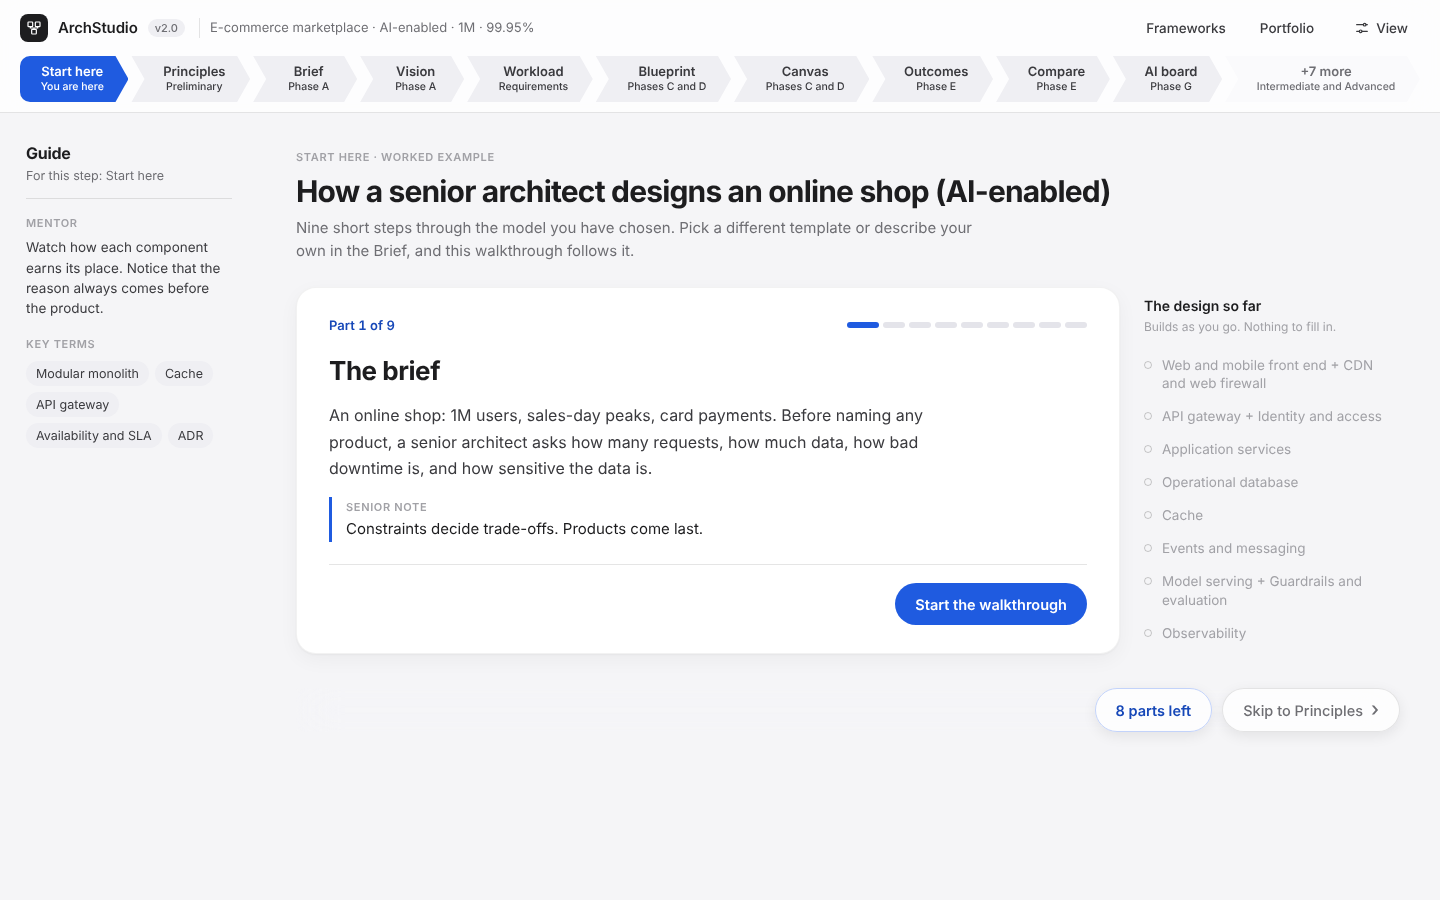
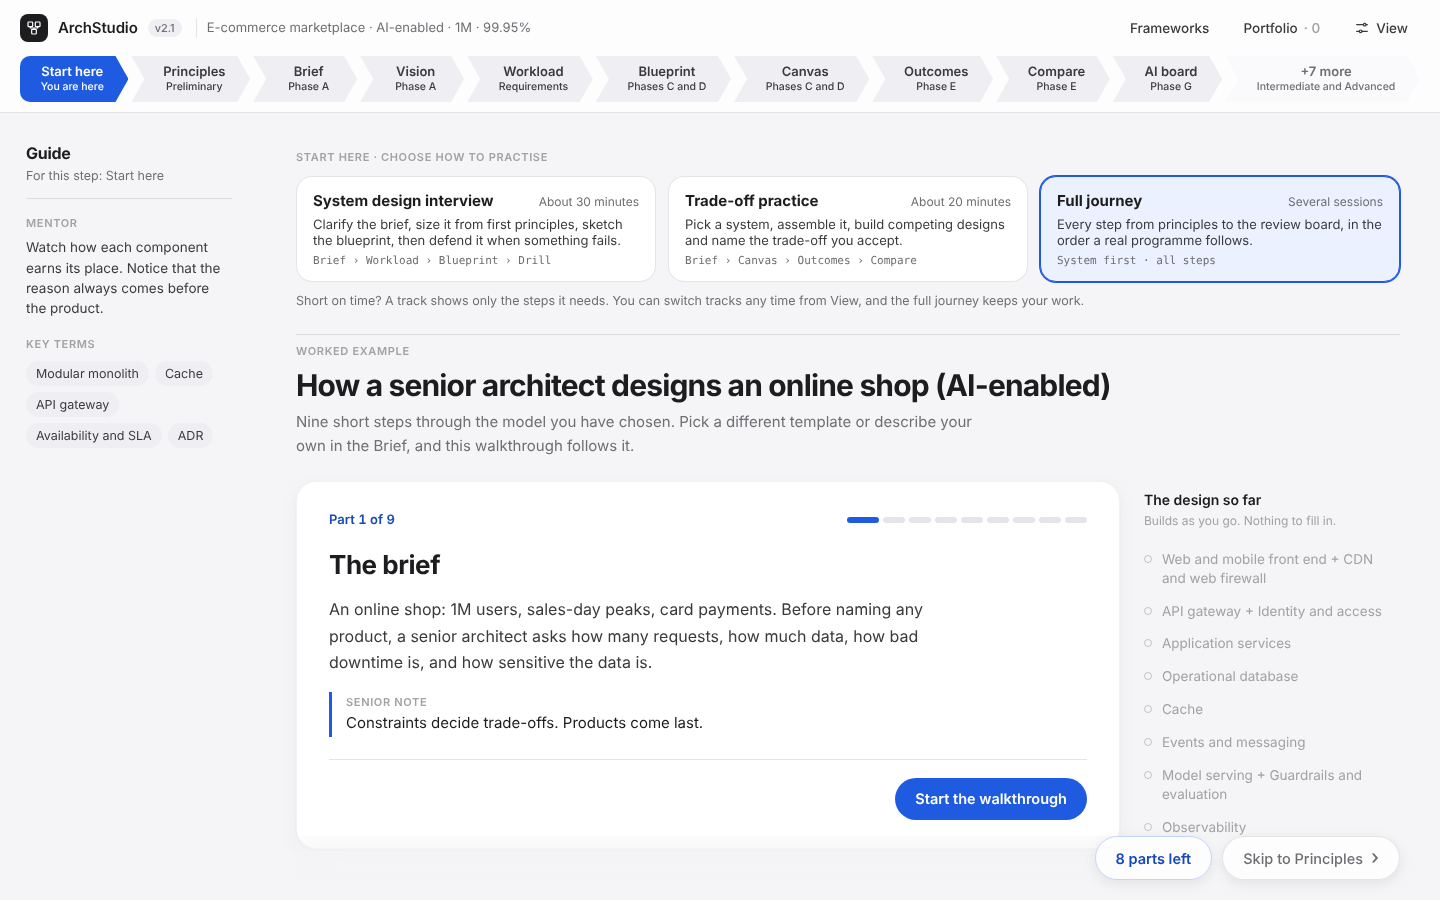
Add practice tracks: system design interview and trade-off practice
- Track picker on Start here and in View, at every level
- Journey shows only the track's steps with suggested minutes
- Track-specific coaching and finish card; one click back to the full journey

Claude-Session: https://claude.ai/code/session_01P96XG3jR94F4SatdfiLe5y

diff --git a/app/index.html b/app/index.html
@@ -251,6 +251,14 @@ body::before { content: ""; position: fixed; inset: 0 0 auto; height: env(safe-a
 </div>
 <span style="font-size: 12px; color: var(--ink-4)">{{lockedLine}}</span>
 </div>
+<div style="display: flex; flex-direction: column; gap: 6px; padding-top: 12px; border-top: 1px solid var(--hair)">
+<span class="as-eyebrow">Practice track</span>
+<div role="group" aria-label="Practice track" style="display: flex; flex-direction: column; gap: 4px">
+<sc-for list="{{trackOpts}}" as="tk" hint-placeholder-count="3">
+<button type="button" onClick="{{tk.pick}}" aria-pressed="{{tk.on}}" style="display: flex; justify-content: space-between; gap: 8px; align-items: baseline; text-align: left; min-height: 34px; padding: 6px 10px; border-radius: 8px; border: 1px solid {{tk.bd}}; background: {{tk.bg}}; color: var(--ink); font-size: 13px"><span style="font-weight: 500">{{tk.n}}</span><span style="font-size: 11.5px; color: var(--ink-3)">{{tk.t}}</span></button>
+</sc-for>
+</div>
+</div>
 <div style="display: flex; justify-content: space-between; align-items: center; gap: 12px; padding-top: 12px; border-top: 1px solid var(--hair)">
 <span style="display: flex; flex-direction: column"><span style="font-size: 14px; font-weight: 500">Plain language</span><span style="font-size: 12px; color: var(--ink-3)">Define terms as you go</span></span>
 <button type="button" role="switch" class="as-switch" onClick="{{togglePlain}}" aria-checked="{{plainPressed}}" aria-label="Plain language"><span></span></button>
@@ -278,7 +286,7 @@ body::before { content: ""; position: fixed; inset: 0 0 auto; height: env(safe-a
 </sc-for>
 <sc-if value="{{hasLockedChev}}" hint-placeholder-val="{{true}}">
 <li style="flex: 1 0 auto; min-width: 128px; display: flex">
-<button type="button" class="as-chev" data-state="locked" data-first="false" onClick="{{toggleMenu}}" title="{{lockedLine}}. Change level in View."><span class="as-chev-l">+{{lockedNum}} more</span><span class="as-chev-s">{{lockedNext}}</span></button>
+<button type="button" class="as-chev" data-state="locked" data-first="false" onClick="{{lockedClick}}" title="{{lockedTip}}"><span class="as-chev-l">+{{lockedNum}} more</span><span class="as-chev-s">{{lockedNext}}</span></button>
 </li>
 </sc-if>
 </ol>
@@ -428,8 +436,21 @@ body::before { content: ""; position: fixed; inset: 0 0 auto; height: env(safe-a
 
 <sc-if value="{{isTour}}" hint-placeholder-val="{{true}}">
 <section style="display: flex; flex-direction: column; gap: 24px">
-<div style="display: flex; flex-direction: column; gap: 8px">
-<span class="as-eyebrow">Start here · Worked example</span>
+<div style="display: flex; flex-direction: column; gap: 10px">
+<span class="as-eyebrow">Start here · Choose how to practise</span>
+<div role="group" aria-label="Practice track" style="display: grid; grid-template-columns: repeat(auto-fit, minmax(240px, 1fr)); gap: 12px">
+<sc-for list="{{trackOpts}}" as="tk" hint-placeholder-count="3">
+<button type="button" onClick="{{tk.pick}}" aria-pressed="{{tk.on}}" style="text-align: left; padding: 14px 16px; border-radius: var(--r-lg); border: 1px solid {{tk.bd}}; box-shadow: {{tk.ring}}; background: {{tk.bg}}; color: var(--ink); display: flex; flex-direction: column; gap: 6px">
+<span style="display: flex; flex-wrap: wrap; justify-content: space-between; gap: 4px 8px; align-items: baseline"><span style="font-weight: 700; font-size: 15px">{{tk.n}}</span><span style="font-size: 12px; color: var(--ink-3)">{{tk.t}}</span></span>
+<span style="font-size: 13px; color: var(--ink-2)">{{tk.d}}</span>
+<span style="font-family: var(--mono); font-size: 11px; color: var(--ink-3)">{{tk.path}}</span>
+</button>
+</sc-for>
+</div>
+<span style="font-size: 12.5px; color: var(--ink-3)">Short on time? A track shows only the steps it needs. You can switch tracks any time from View, and the full journey keeps your work.</span>
+</div>
+<div style="display: flex; flex-direction: column; gap: 8px; padding-top: 8px; border-top: 1px solid var(--hair)">
+<span class="as-eyebrow">Worked example</span>
 <h1 style="margin: 0; font-size: 30px; line-height: 1.15">{{tourTitle}}</h1>
 <p style="margin: 0; color: var(--ink-3); max-width: 680px; line-height: 1.55">{{tourIntro}}</p>
 </div>
@@ -2010,6 +2031,17 @@ function localStore() {
     collection: name => ({ doc: () => docRef(name + '/' + newId()), orderBy: () => ({ limit: () => ({ onSnapshot: cb => sub(() => cb(snap())) }) }) }) };
 }
 
+const TRACKS = {
+  interview: { n: 'System design interview', t: 'About 30 minutes', lens: 'system',
+    d: 'Clarify the brief, size it from first principles, sketch the blueprint, then defend it when something fails.',
+    steps: [['brief', 5], ['workload', 10], ['blueprint', 10], ['drill', 5]] },
+  tradeoff: { n: 'Trade-off practice', t: 'About 20 minutes',
+    d: 'Pick a system, assemble it, build competing designs and name the trade-off you accept.',
+    steps: [['brief', 3], ['canvas', 7], ['outcomes', 5], ['compare', 5]] },
+  full: { n: 'Full journey', t: 'Several sessions',
+    d: 'Every step from principles to the review board, in the order a real programme follows.', steps: null }
+};
+
 const AI_PROVIDERS = {
   anthropic: { n: 'Anthropic', s: 'Claude', model: 'claude-sonnet-5-5', key: true, link: 'https://console.anthropic.com/settings/keys',
     help: 'Uses Claude through the Anthropic API. You need an API key from the Anthropic Console; API usage is billed by Anthropic.' },
@@ -2088,7 +2120,7 @@ class Component extends DCLogic {
     scenario: null, principles: null, stake: null, chg: {}, contractSigned: false,
     canvas: null, canvasSel: null, linkFrom: null, linkType: 'sync', palQ: '',
     board: null, boardVerdict: null, portfolio: [], names: {}, savedId: null, showPort: false, showFw: false, showMenu: false, showSide: false, portMsg: '', portErr: false, confirmDel: null, teamMsg: '',
-    showAI: false, aiCfg: { provider: 'anthropic', model: 'claude-sonnet-5-5', key: '', url: '', remember: false }, aiSrc: 'none', aiTest: '', aiTestOk: null, aiTesting: false };
+    track: 'full', showAI: false, aiCfg: { provider: 'anthropic', model: 'claude-sonnet-5-5', key: '', url: '', remember: false }, aiSrc: 'none', aiTest: '', aiTestOk: null, aiTesting: false };
 
   componentDidMount() {
     this._host = !!(window.claude && typeof window.claude.use === 'function');
@@ -2855,7 +2887,32 @@ class Component extends DCLogic {
 
   visibleSteps(level) {
     const cap = { beginner: 1, intermediate: 2, advanced: 3 }[level || this.state.level];
+    const T = TRACKS[this.state.track];
+    if (T && T.steps) {
+      const all = this.allSteps(); const byId = {}; all.forEach(x => { byId[x[0]] = x; });
+      return (cap === 1 ? [byId.tour] : []).concat(T.steps.map(x => byId[x[0]]).filter(Boolean));
+    }
     return this.allSteps().filter(s => s[2] <= cap && (s[0] !== 'tour' || cap === 1));
+  }
+
+  pickTrack(id) {
+    const T = TRACKS[id]; if (!T) return;
+    const patch = { track: id, showMenu: false };
+    if (T.lens) patch.lens = T.lens;
+    if (T.steps) patch.step = T.steps[0][0];
+    this.setState(patch);
+    try { window.scrollTo({ top: 0 }); } catch (e) {}
+  }
+
+  trackVals() {
+    const st = this.state; const cur = TRACKS[st.track] ? st.track : 'full';
+    const opts = ['interview', 'tradeoff', 'full'].map(id => { const T = TRACKS[id]; const on = id === cur;
+      return { n: T.n, t: T.t, d: T.d, on: on ? 'true' : 'false', pick: () => this.pickTrack(id),
+        path: T.steps ? T.steps.map(x => this.allSteps().find(a => a[0] === x[0])[1]).join(' › ') : (st.lens === 'enterprise' ? 'Portfolio first · all steps' : 'System first · all steps'),
+        bd: on ? 'var(--accent)' : 'var(--hair)', bg: on ? 'var(--accent-soft)' : 'var(--surface)', ring: on ? '0 0 0 1px var(--accent)' : 'none' }; });
+    const T = TRACKS[cur];
+    return { trackOpts: opts, inTrack: !!T.steps, trackName: T.n, trackLine: T.steps ? T.n + ' · ' + T.t.toLowerCase() : '',
+      fullJourney: () => this.pickTrack('full') };
   }
 
   setLevel(level) {
@@ -3880,6 +3937,15 @@ class Component extends DCLogic {
       gap: 'Never jump from baseline to target in one step. Each plateau should be something the business can run on.',
       board: 'Answer with the specifics of your design: names, numbers and the trade-off you accepted. Boards distrust adjectives.',
       change: 'Most change is smaller than it looks. Reserve a new ADM cycle for changes to drivers, scope or strategy.' };
+    if (st.track === 'interview') {
+      coaches.brief = 'Interview habit: spend the first minutes asking, not drawing. Users, load, data size, and what an outage costs.';
+      coaches.workload = 'Say the numbers out loud. Interviewers care less about the exact figure than whether your design follows from it.';
+      coaches.blueprint = 'Draw the simplest thing that meets the numbers, then add parts only when a number forces you to.';
+      coaches.drill = 'Expect "what happens when this fails?" Name how you would notice, how far it spreads and how you recover.';
+    } else if (st.track === 'tradeoff') {
+      coaches.outcomes = 'Make the two designs genuinely different: one open source and self-run, one managed. Similar options teach nothing.';
+      coaches.compare = 'Finish by saying which design you would pick and the one quality you are giving up for it.';
+    }
     if (ent) {
       coaches.brief = 'Portfolio first: start from the capability that must improve and the systems that serve it today. Technology comes later.';
       coaches.blueprint = 'Look outward first. A solution that fits its neighbours and lets old systems retire beats a clever one that adds to the estate.';
@@ -4110,15 +4176,18 @@ class Component extends DCLogic {
 
     // Journey chevrons: every step on the learner's path, plus what unlocks later
     const phaseTxt = p => !p ? '' : p === 'R' ? 'Requirements' : p === 'Prelim' ? 'Preliminary' : (p.indexOf(' ') >= 0 ? 'Phases ' + p.split(' ').join(' and ') : 'Phase ' + p);
+    const trk = TRACKS[st.track] && TRACKS[st.track].steps ? TRACKS[st.track] : null; const tmin = {}; if (trk) trk.steps.forEach(x => { tmin[x[0]] = x[1]; });
     const journey = vis.map((x, i) => {
       const cur = x[0] === step; const dn = i < si; const ph = phaseTxt(x[3]);
       return { label: x[0] === 'tour' ? 'Start here' : x[1], state: cur ? 'now' : dn ? 'done' : 'next', first: i === 0 ? 'true' : 'false', cur: cur ? 'step' : 'false',
-        sub: cur ? 'You are here' : dn ? '✓ ' + (ph || 'Done') : (ph || 'Step ' + (i + 1)),
+        sub: cur ? 'You are here' : dn ? '✓ ' + (trk && tmin[x[0]] ? 'Done' : (ph || 'Done')) : (trk && tmin[x[0]] ? 'About ' + tmin[x[0]] + ' min' : (ph || 'Step ' + (i + 1))),
         tip: 'Step ' + (i + 1) + ' of ' + vis.length + ': ' + x[1] + (ph ? ' (' + ph + ')' : ''), go: go(x[0]) };
     });
     const lockedSteps = this.allSteps().filter(x => x[0] !== 'tour' && visIds.indexOf(x[0]) < 0);
     const lockedLv = lockedSteps.map(x => x[2]).filter((v, i, a) => a.indexOf(v) === i).sort();
-    const lockedNext = lockedLv.length > 1 ? 'Intermediate and Advanced' : lockedLv[0] === 3 ? 'At Advanced level' : 'At Intermediate level';
+    const lockedNext = trk ? 'In the full journey' : lockedLv.length > 1 ? 'Intermediate and Advanced' : lockedLv[0] === 3 ? 'At Advanced level' : 'At Intermediate level';
+    const lockedClick = trk ? () => this.pickTrack('full') : () => this.setState({ showMenu: !st.showMenu });
+    const lockedTip = trk ? 'Switch to the full journey' : 'Steps unlock at higher levels. Change level in View.';
 
     // Flowchart: orthogonal routing through the gaps between cards
     const colOf = { exp: 0, edge: 1, app: 2, data: 3 };
@@ -4495,7 +4564,7 @@ class Component extends DCLogic {
     const nextLevel = { beginner: ['intermediate','Unlock Intermediate: decisions, evolution and drills'], intermediate: ['advanced','Unlock Advanced: enterprise view and review board'] }[st.level];
     const atEnd = si === vis.length - 1;
     const base = {
-      journey, hasLockedChev: lockedSteps.length > 0, lockedNum: lockedSteps.length, lockedNext,
+      journey, hasLockedChev: lockedSteps.length > 0, lockedNum: lockedSteps.length, lockedNext, lockedClick, lockedTip,
       lensOpts, briefIntro, libOpts, libNote, land, showLandscape: ent, guideStep: step === 'tour' ? 'Start here' : vis[si][1],
       flowHead: ent ? '2. Inside the solution: how the parts talk' : '1. How the parts talk to each other', reqHead: ent ? '3. Follow a request and inspect the structure' : '2. Follow a request and inspect the structure',
       wQs, wFig, wCalc, wLaws, wDerived, wSummary, wSumFg: wMis ? 'var(--warn)' : 'var(--good)', wBasis, wImplNote: isImplApp,
@@ -4508,7 +4577,7 @@ class Component extends DCLogic {
       showTpl: st.showTpl, tplExpanded: st.showTpl ? 'true' : 'false', tplLabel: st.showTpl ? 'Hide templates' : 'Browse templates', toggleTpl: () => this.setState({ showTpl: !st.showTpl }),
       stepPos: 'Step ' + (si + 1) + ' of ' + vis.length + ': ' + vis[si][1],
       steps, coach: coaches[step], briefLine: A.n + ' · ' + { none: 'No AI', enabled: 'AI-enabled', native: 'AI-native' }[st.ai] + ' · ' + st.scale + ' · ' + st.avail + '%', levels,
-      hasLocked: lockedN > 0, lockedLine: lockedN === 1 ? '1 more step unlocks at a higher level' : lockedN + ' more steps unlock at higher levels',
+      hasLocked: lockedN > 0, lockedLine: trk ? 'Levels change the detail on each step. Your practice track sets which steps you see.' : lockedN === 1 ? '1 more step unlocks at a higher level' : lockedN + ' more steps unlock at higher levels',
       plain: st.plain, togglePlain: () => this.setState({ plain: !st.plain }), plainPressed: st.plain ? 'true' : 'false', plainLabel: st.plain ? 'on' : 'off',
       plainBg: st.plain ? SOFT : 'var(--surface)', plainBd: st.plain ? ACC : LINE, plainFg: st.plain ? 'var(--accent-ink)' : INK,
       quizScore: qRight + ' / ' + qTotal, terms, hasTerm, term,
@@ -4588,6 +4657,13 @@ class Component extends DCLogic {
       base.finishSaveCls = base.atLevelEnd ? 'as-secondary' : 'as-primary';
       base.finishNewCls = (base.atLevelEnd || this._db) ? 'as-secondary' : 'as-primary';
       base.startNew = () => { this.setState({ step: 'brief', scenario: null, briefChosen: false, visionAgreed: false, canvasAgreed: false, canvas: null, chosen: null, reqPlayed: false, reqStep: -1, contractSigned: false, chg: {}, board: null, boardVerdict: null, savedId: null, outcomes: [], outcomesApp: null, active: 0, predict: {} }); try { window.scrollTo({ top: 0 }); } catch (e) {} };
+      if (trk && base.showFinish) {
+        base.finishTitle = 'You have finished ' + (st.track === 'interview' ? 'the system design interview' : 'trade-off practice');
+        base.finishBody = (st.track === 'interview' ? 'Run it again with a different template and keep to the time on each step. ' : 'Try the same system under a different constraint, such as Regulated or 99.99%, and see whether your pick changes. ') + 'The full journey adds principles, the business view, a roadmap and the review board.';
+        base.finishCanLevel = true; base.finishLevelLabel = 'Continue in the full journey';
+        base.levelUp = () => this.pickTrack('full');
+        base.finishSaveCls = 'as-secondary'; base.finishNewCls = 'as-secondary';
+      }
       if (base.showFinish) base.atLevelEnd = false;
       base.conveneCls = (st.board && st.board.questions && st.board.questions.length) ? 'as-secondary' : 'as-primary';
       // Blueprint
@@ -4595,7 +4671,7 @@ class Component extends DCLogic {
       base.playCls = played ? 'as-secondary' : 'as-primary'; base.playLabel = played ? 'Replay' : 'Play the request';
       if (st.reqStep >= 0 && !st.reqPlayed) setTimeout(() => this.setState({ reqPlayed: true }), 0);
     }
-    return Object.assign(base, this.admVals(go, stepNames), this.fwVals(go), this.canvasVals(), this.portVals(), this.boardVals(), this.teamVals(qRight, qTotal), this.aiVals());
+    return Object.assign(base, this.admVals(go, stepNames), this.fwVals(go), this.canvasVals(), this.portVals(), this.boardVals(), this.teamVals(qRight, qTotal), this.aiVals(), this.trackVals());
   }
 }
 

diff --git a/docs/build-log.md b/docs/build-log.md
@@ -54,4 +54,5 @@ Changes made after an external review of the repository.
 
 - **Works fully outside Claude.** Designs save to browser storage when Claude's shared store is not available.
 - **Bring your own model.** Briefs and the AI review board can use Anthropic, OpenAI, Gemini or a local Ollama model, called directly from the browser. Keys are kept in memory unless the user chooses to remember them.
+- **Practice tracks.** A 30-minute system design interview and a 20-minute trade-off practice sit alongside the full journey. Each track shows only its steps, with suggested minutes and its own coaching.
 - **Safer links.** The renderer already escaped all text and attributes; links now must use https, http or mailto, or they are blocked.

diff --git a/README.md b/README.md
@@ -23,6 +23,16 @@ Open **View options → AI model** and choose Anthropic, OpenAI, Google Gemini o
 
 For Ollama, start it with `OLLAMA_ORIGINS` set to the site's address (for example `https://dd-hands-on.github.io`) so the browser is allowed to call it.
 
+## Practice tracks
+
+Choose how to practise on the first screen, or any time from **View**:
+
+| Track | Time | Steps |
+|---|---|---|
+| System design interview | About 30 minutes | Brief › Workload › Blueprint › Drill |
+| Trade-off practice | About 20 minutes | Brief › Canvas › Outcomes › Compare |
+| Full journey | Several sessions | Every step below |
+
 ## What it covers
 
 | Step | What you do |
